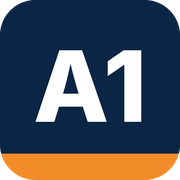
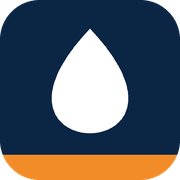
Rebrand as Drain Cleaning Pro's of Iowa City
- Site name, titles, H1s, schema, favicon and share image now use
  "Drain Cleaning Pro's of Iowa City" with a text logo instead of A1's logo
- Reviews, the 5.0 rating and job photos stay credited to A1 Sewer
  Service as the crew that completes the jobs, since they are its own
- Business schema drops A1's street address, coordinates and Google
  listing; the brand is listed as a service-area business

Claude-Session: https://claude.ai/code/session_019XHQQJX2rhaEadLY5LwQtJ

diff --git a/static/css/styles.css b/static/css/styles.css
@@ -67,15 +67,20 @@ ul { margin: 0; padding: 0; list-style: none; }
 .topbar-info span { display: inline-flex; align-items: center; gap: 8px; }
 .topbar-info .ico-svg { color: var(--orange); }
 .topbar-rating { display: inline-flex; align-items: center; gap: 8px; color: #fff; }
-.topbar-rating:hover { color: var(--orange); }
+.topbar-rating .ico-svg { color: var(--orange); }
 .stars { display: inline-flex; gap: 1px; color: #fbbc05; }
 .stars .ico-svg { width: 15px; height: 15px; }
 
 .site-header { position: sticky; top: 0; z-index: 50; background: #fff; border-bottom: 1px solid var(--line); }
 .site-header .container { display: flex; align-items: center; justify-content: space-between; gap: 20px; min-height: 78px; }
-.brand { display: flex; flex-direction: column; gap: 3px; }
-.brand img { width: 168px; height: auto; }
-.brand-sub { font-size: 11.5px; font-weight: 700; letter-spacing: 1.4px; text-transform: uppercase; color: var(--teal); }
+.brand { display: flex; align-items: center; gap: 12px; color: var(--ink); }
+.brand:hover { color: var(--ink); }
+.brand-mark { width: 46px; height: 46px; border-radius: 12px; background: var(--navy); color: #fff; display: grid; place-items: center; flex: none; box-shadow: inset 0 -5px 0 var(--orange); }
+.brand-mark .ico-svg { width: 24px; height: 24px; margin-top: -3px; }
+.brand-name { display: flex; flex-direction: column; font-family: var(--head); font-weight: 800; font-size: 25px; line-height: 1; color: var(--ink); letter-spacing: .3px; white-space: nowrap; }
+.brand-name small { font-family: var(--body); font-size: 12px; font-weight: 700; letter-spacing: 1.6px; text-transform: uppercase; color: var(--teal); margin-top: 5px; }
+.brand--light .brand-name { color: #fff; }
+.brand--light .brand-name small { color: #8fe0e4; }
 .nav { display: flex; align-items: center; gap: 4px; }
 .nav > li { position: relative; display: flex; align-items: center; }
 .nav > li > a { display: block; padding: 10px 13px; font-weight: 600; color: var(--ink); border-radius: 8px; }
@@ -218,9 +223,10 @@ ul { margin: 0; padding: 0; list-style: none; }
 .who b { display: block; color: var(--ink); }
 .who span { font-size: 14px; color: var(--muted); }
 .t-foot { text-align: center; margin-top: 34px; }
-.rating-pill, .f-rating { display: inline-flex; align-items: center; gap: 10px; background: #fff; border: 1px solid var(--line); border-radius: 40px; padding: 12px 22px; color: var(--ink); font-weight: 600; box-shadow: var(--shadow); }
-.rating-pill .ico-svg:last-child { width: 16px; height: 16px; color: var(--orange-2); }
-.rating-pill:hover { color: var(--orange-2); }
+.t-attr { display: flex; align-items: center; justify-content: center; gap: 10px; text-align: center; color: var(--muted); font-size: 15.5px; max-width: 760px; margin: -18px auto 30px; }
+.t-attr .ico-svg { color: var(--teal); width: 18px; height: 18px; }
+.t-attr b { color: var(--ink); }
+.rating-pill { display: inline-flex; align-items: center; gap: 10px; background: #fff; border: 1px solid var(--line); border-radius: 40px; padding: 12px 22px; color: var(--ink); font-weight: 600; box-shadow: var(--shadow); }
 
 /* before / after */
 .ba-grid { display: grid; grid-template-columns: 1fr 1fr; gap: 24px; max-width: 1000px; margin: 0 auto; }
@@ -330,12 +336,11 @@ ul { margin: 0; padding: 0; list-style: none; }
 /* footer */
 .site-footer { background: var(--navy-3); color: #9fb2c8; padding: 76px 0 0; font-size: 15.5px; }
 .f-grid { display: grid; grid-template-columns: 1.4fr 1fr 1fr 1.3fr; gap: 44px; }
-.brand--light img { width: 190px; margin-bottom: 18px; }
+.site-footer .brand { margin-bottom: 18px; }
 .site-footer h4 { color: #fff; font-size: 22px; margin-bottom: 18px; }
 .site-footer ul { display: grid; gap: 10px; }
 .site-footer a { color: #c9d6e6; }
 .site-footer a:hover { color: var(--orange); }
-.f-rating { background: rgba(255, 255, 255, 0.06); border-color: rgba(255, 255, 255, 0.12); color: #fff; box-shadow: none; font-size: 14.5px; padding: 10px 16px; }
 .f-contact li { display: flex; gap: 12px; align-items: flex-start; }
 .f-contact .ico-svg { color: var(--orange); width: 18px; height: 18px; margin-top: 4px; }
 .f-bottom { margin-top: 56px; border-top: 1px solid rgba(255, 255, 255, 0.1); padding: 22px 0; display: flex; justify-content: space-between; gap: 16px; flex-wrap: wrap; font-size: 14.5px; }
@@ -401,8 +406,11 @@ ul { margin: 0; padding: 0; list-style: none; }
   .hide-sm { display: none !important; }
   .topbar .container { justify-content: center; flex-wrap: wrap; gap: 4px 16px; padding-top: 6px; padding-bottom: 6px; }
   .site-header .container { min-height: 68px; }
-  .brand img { width: 138px; }
-  .brand-sub { font-size: 10px; letter-spacing: 1px; }
+  .brand { gap: 10px; }
+  .brand-mark { width: 40px; height: 40px; border-radius: 10px; }
+  .brand-mark .ico-svg { width: 21px; height: 21px; }
+  .brand-name { font-size: 21px; }
+  .brand-name small { font-size: 10.5px; letter-spacing: 1.2px; }
   .header-cta .btn { display: none; }
   .cards, .cards--3, .steps, .ba-grid, .f-grid { grid-template-columns: 1fr; }
   .contact-form { padding: 22px 18px; }
